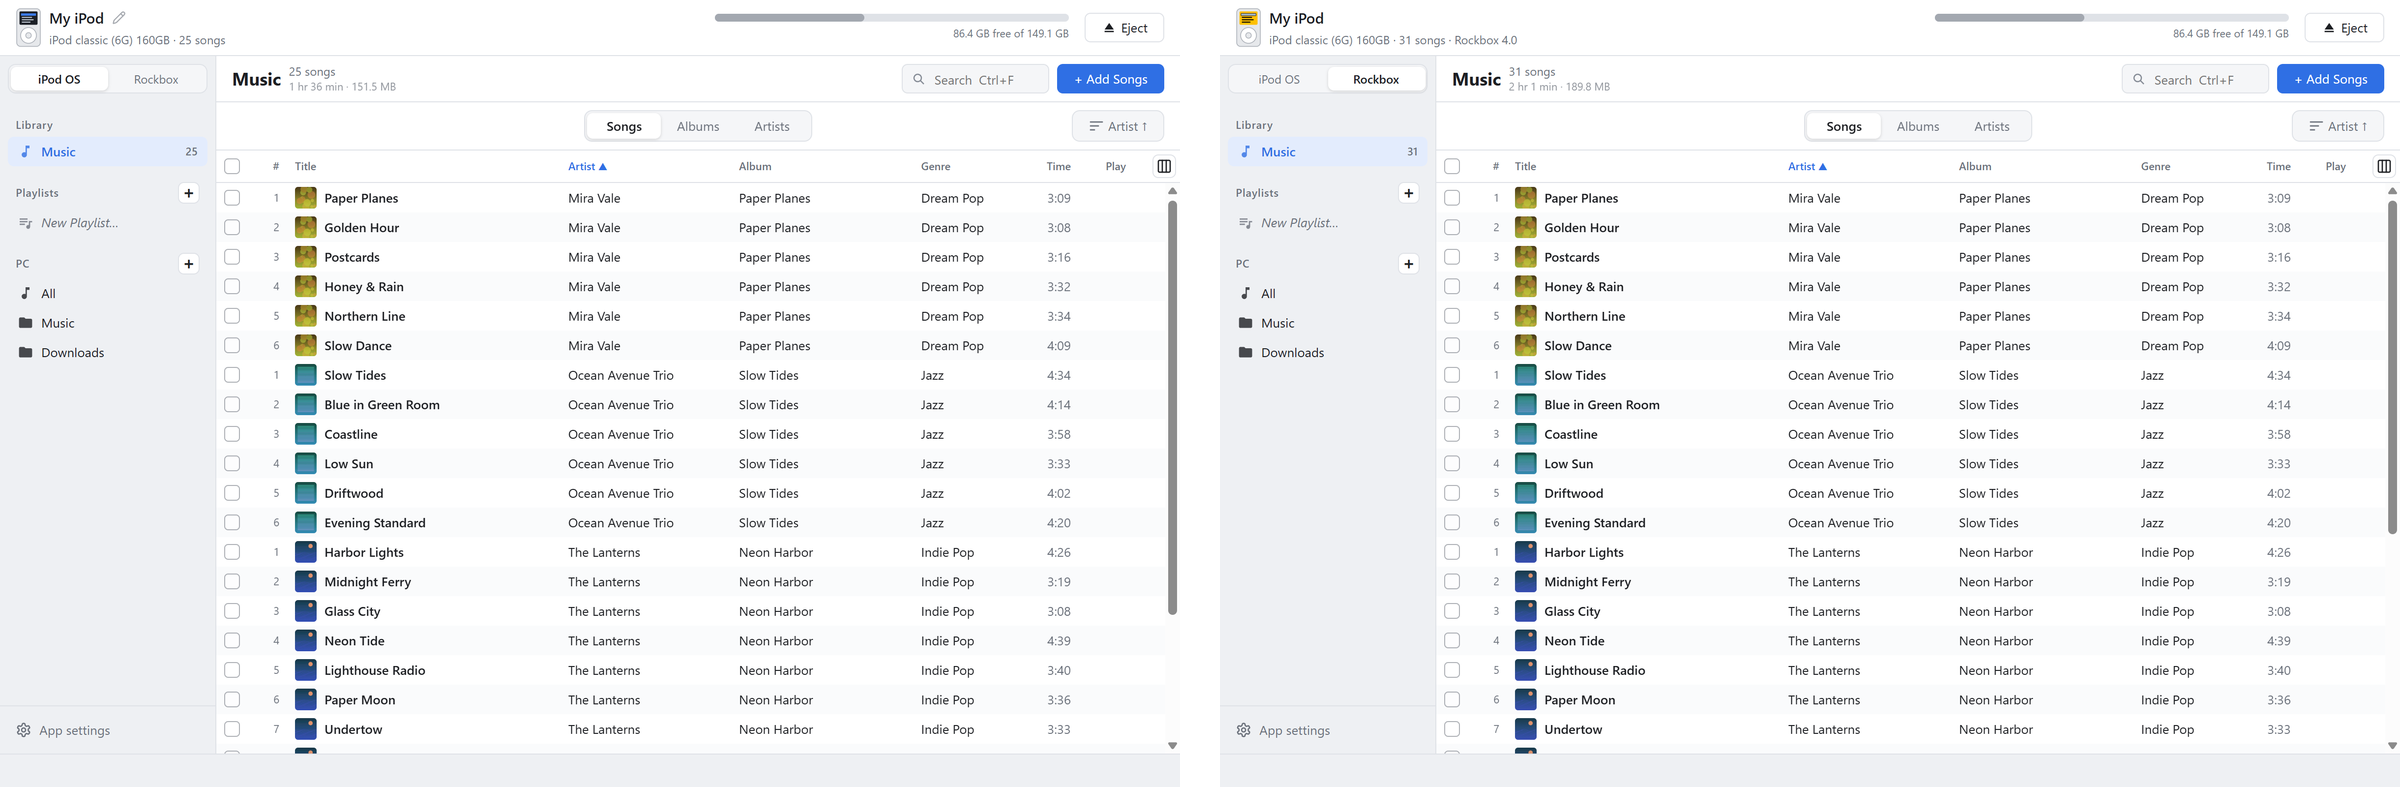
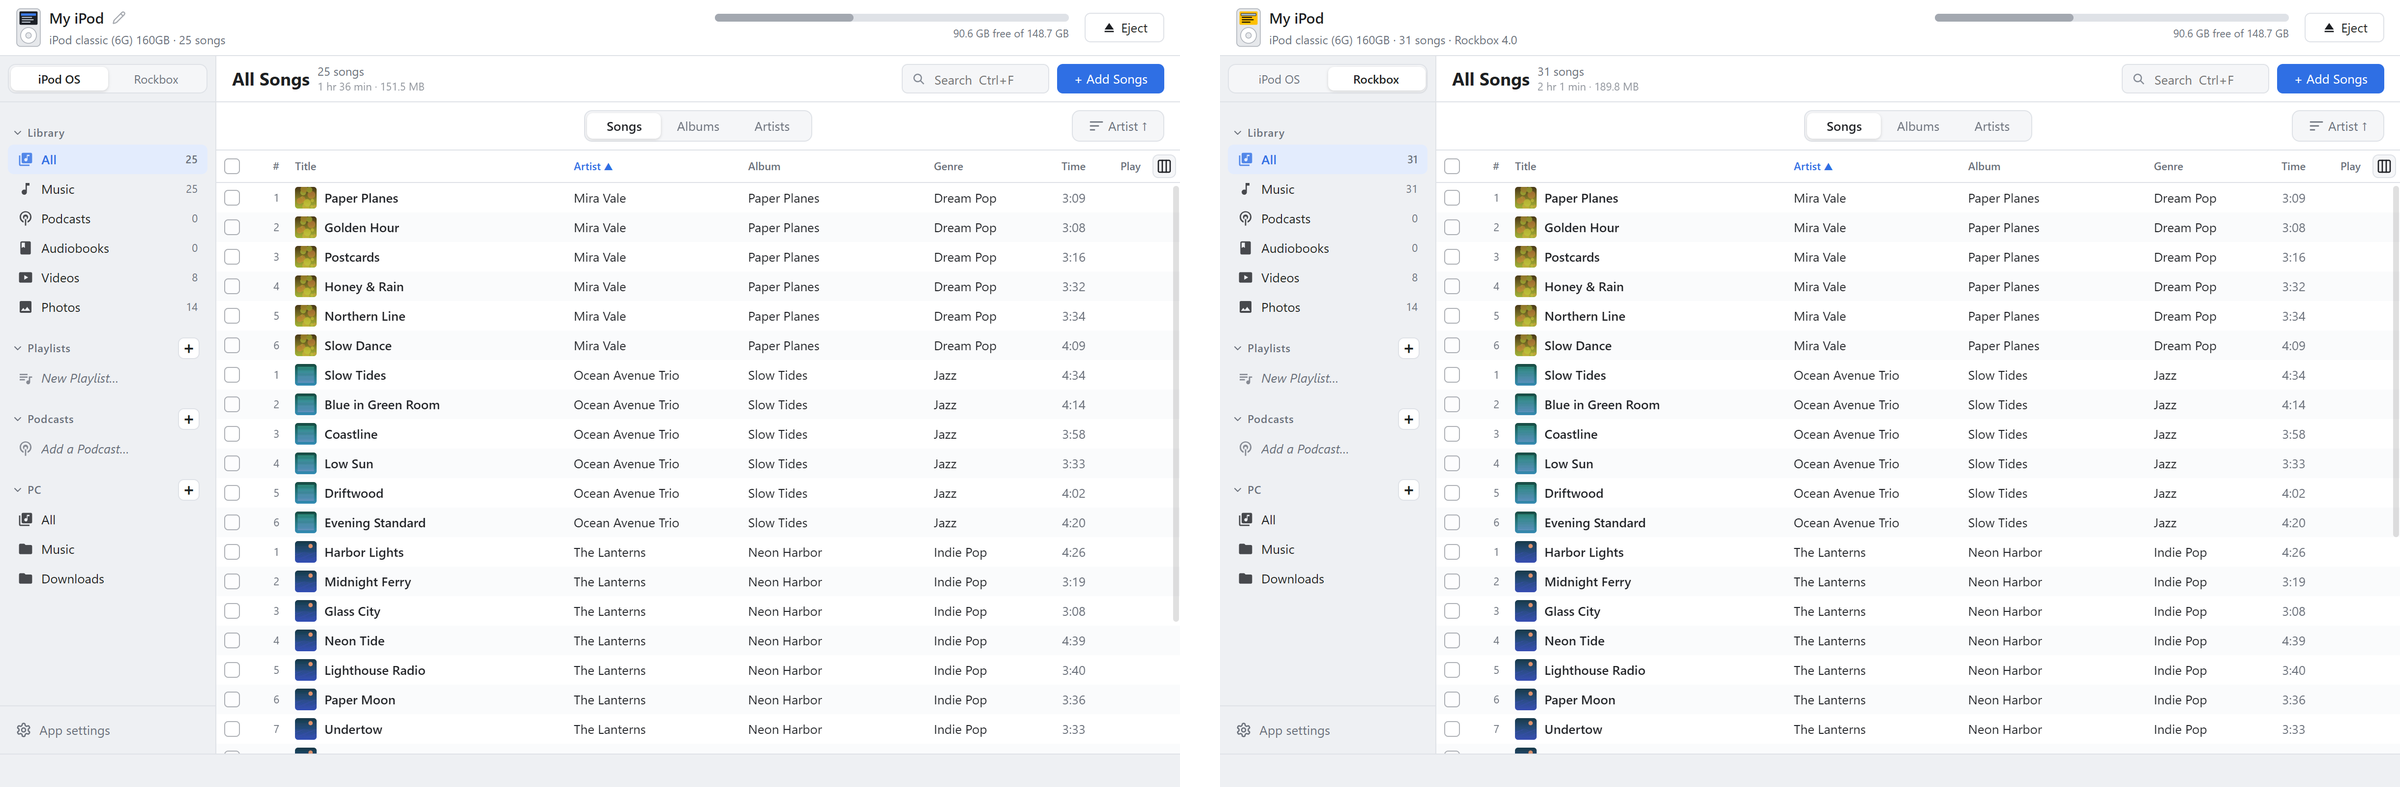
README: 紹介動画をモーショングラフィックス (54 秒) に変えて冒頭に埋め込み、GIF を外す。スクショを v2.8.4 の画面で撮り直し、動画と写真の一覧の画像を足す (日英)

diff --git a/README.en.md b/README.en.md
@@ -13,9 +13,7 @@ For Windows, macOS and Linux. **Completely free** — no ads, no paid features, 
 
 <a href="https://ko-fi.com/ishiichan_dayo"><img src="https://storage.ko-fi.com/cdn/kofi2.png?v=3" height="40" alt="Support me on Ko-fi"></a>
 
-<img src="docs/images/demo.gif" alt="Switching between iPod OS and Rockbox, transferring songs, and renaming files in bulk" width="800">
-
-[Watch the intro video (72 s, with sound)](https://github.com/ishiichan-dayo/ZenPod/releases/download/v1.0.0/zenpod-intro-en.mp4)
+https://github.com/user-attachments/assets/2299ad84-81b5-4767-9473-17d8b059194f
 
 </div>
 
@@ -72,6 +70,8 @@ Add your music folders on the PC and browse them in the same window as your iPod
 - **Smart playlists**: create and edit smart playlists by combining rules, just like in iTunes. Works in both iPod OS and Rockbox modes (in Rockbox mode, the matching songs are written to an `.m3u8`). You can import playlists from iTunes / Music XML and `.m3u` / `.m3u8` files (songs missing from the iPod can be sent from your PC first), and export smart playlists as XML for iTunes
 - **Display size**: change it in Settings → General, or with Ctrl + / Ctrl − (⌘ on Mac)
 - **Automatic updates**: the app tells you when a new version is out and updates in one click
+
+<img src="docs/images/media-en.png" alt="Videos and photos on the iPod" width="800">
 
 ## Japanese titles sorted correctly
 
